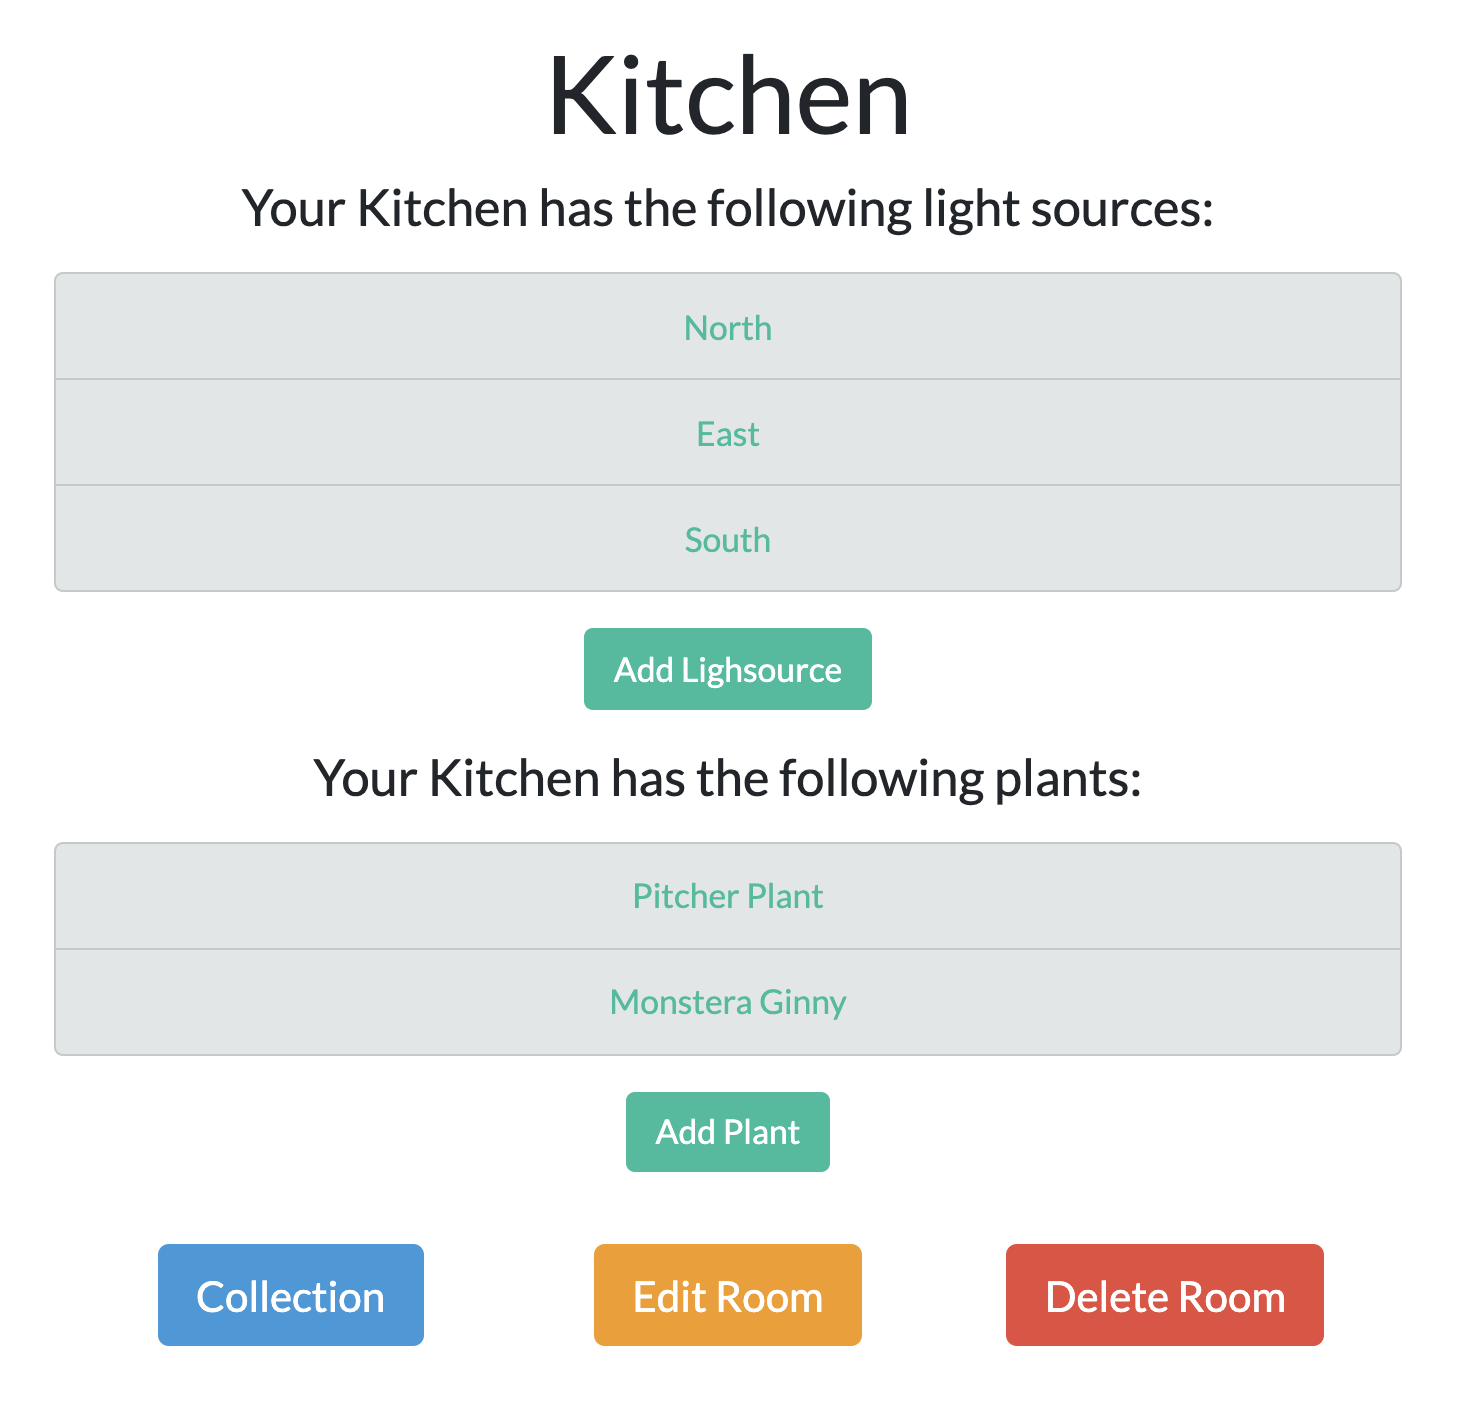
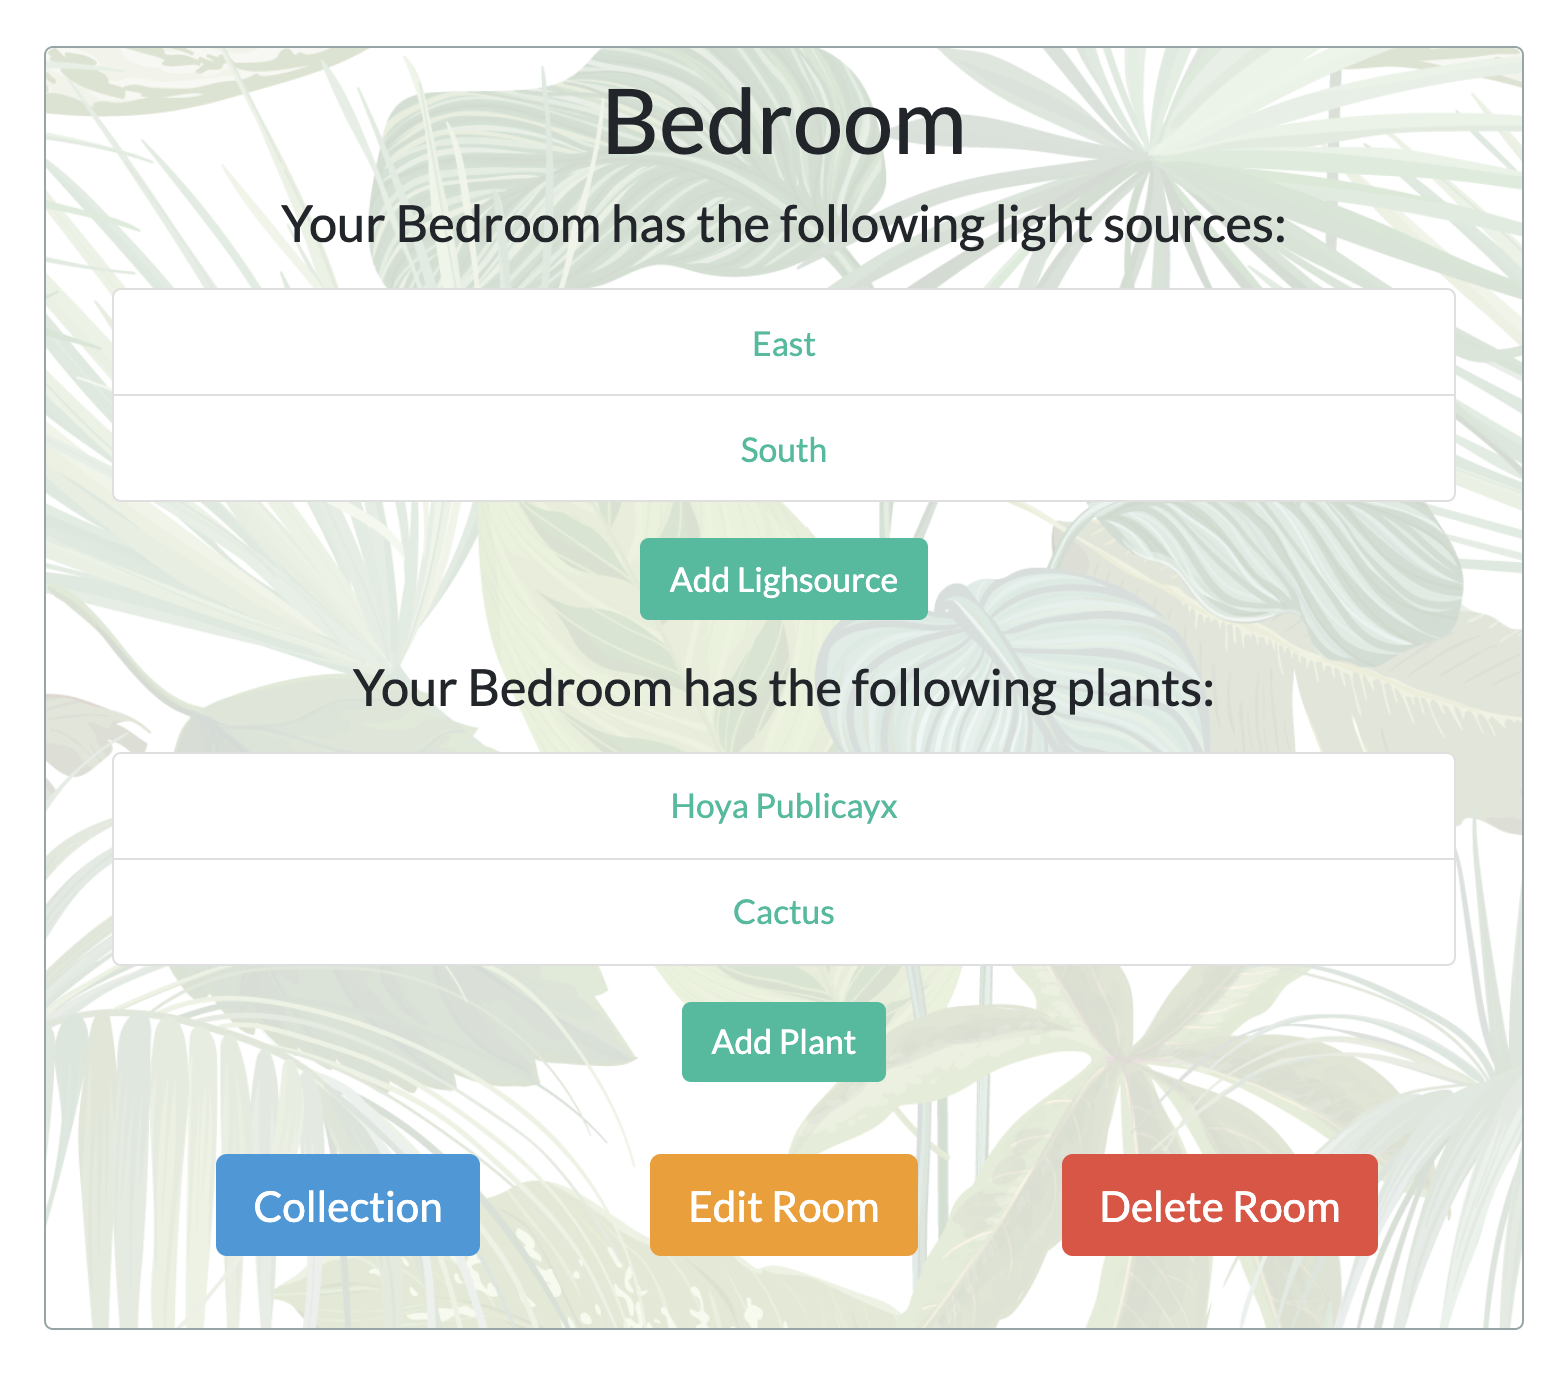
update view styles & imagery

diff --git a/templates/room/view_room.html b/templates/room/view_room.html
@@ -4,33 +4,36 @@
 
 {% block content %}
 
-<div class="col-8 mx-auto">
-  <h1>{{ room.name }}</h1>
+<div class="col-8 mx-auto border border-secondary rounded" id="room">
+  <div class="col mt-2">
+  <h2 class="mt-1">{{ room.name }}</h2>
   {% if lightsources %}
   <h4>Your {{ room.name }} has the following light sources:</h4>
+  </div>
 
   <ul class="list-group m-3">
     {% for light in lightsources %}
-    <li class="list-group-item list-group-item-secondary"><a href="{{ url_for('view_lightsource_plants', lightsource_id=light.id) }}">{{ light.type }}</a></li>
+    <li class="list-group-item list-group-item-white"><a href="{{ url_for('view_lightsource_plants', lightsource_id=light.id) }}">{{ light.type }}</a></li>
     {% endfor %}
   </ul>
-
+  <div class="col">
   <p><a href="{{ url_for('add_lightsource', room_id=room.id) }}" class="btn btn-success">Add Lighsource</a></p>
 
   {% if plants %}
   <h4>Your {{ room.name }} has the following plants:</h4>
-
+  </div>
   <ul class="list-group m-3">
     {% for plant in plants %}
-    <li class="list-group-item list-group-item-secondary"><a href="{{ url_for('view_plant', plant_id=plant.id) }}">{{ plant.name }}</a></li>
+    <li class="list-group-item list-group-item-white"><a href="{{ url_for('view_plant', plant_id=plant.id) }}">{{ plant.name }}</a></li>
     {% endfor %}
   </ul>
-
+  <div class="col">
   <p><a href="{{ url_for('add_plant', room_id=room.id) }}" class="btn btn-success">Add Plant</a></p>
   {% else %}
   <h4>Add plants to this room:</h4>
   <p><a href="{{ url_for('add_plant', room_id=room.id) }}" class="btn btn-success">Add Plant</a></p>
   {% endif %}
+  </div>
 
   <div class="row m-4">
     <div class="col">

diff --git a/templates/dashboard.html b/templates/dashboard.html
@@ -11,9 +11,9 @@
 <p><a href="{{ url_for('add_collection') }}" class="btn btn-success">Add Collection</a></p>
 
   {% for collection in collections %}
-    <div class="card col m-4" id="header">
+    <div class="card col m-4 border border-secondary rounded" id="header">
       <div class="col">
-        <h2 class="m-3 bg-light rounded"><a href="{{ url_for('view_collection', collection_id=collection.id) }}">{{ collection.name }} Collection</a></h2>
+        <h2 class="m-3 bg-white border border-secondary rounded"><a href="{{ url_for('view_collection', collection_id=collection.id) }}">{{ collection.name }} Collection</a></h2>
         <a href="{{ url_for('add_room', collection_id=collection.id) }}" class="card-link btn btn-success">Add Room</a>
         <a href="{{ url_for('edit_collection', collection_id=collection.id) }}" class="card-link btn btn-warning m-2">Edit {{ collection.name }}</a>
       </div>
@@ -21,7 +21,7 @@
     <div class="row text-left">
     {% for room in collection.rooms %}
       <div class="col">
-        <div class="card mx-auto m-2" style="width: 18rem;">
+        <div class="card mx-auto m-2 border border-secondary rounded" style="width: 18rem;">
           <div class="card-body">
             <h4 class="card-title"><a href="{{ url_for('view_room', room_id=room.id) }}">{{ room.name }}</a></h4>
           </div>

diff --git a/templates/water_manager.html b/templates/water_manager.html
@@ -10,7 +10,7 @@
 <p>Click Water to mark your plant watered, or Snooze to snooze your plant's water schedule for 3 days. Click "Add Notes" to add notes if applicable.</p>
 {% else %}
 <p>There are no plants to water today, take a break! <i class="fab fa-pagelines"></i></p>
-<p><img src="/static/img/succulent_terrariums.png" width="60%"></p>
+<p><img class="m-2" src="/static/img/succulent_terrariums.png" width="60%"></p>
 {% endif %}
 
 <div class="row row-cols-1 row-cols-md-3 g-4" id="plants_container">
@@ -28,7 +28,6 @@
             {{ error }}
             </small>
             {% endfor %}
-            <!-- <button type="button" name="water_button" data-plant-id="{{ plant.id }}" class="btn btn-success m-2">Water</button><button type="button" name="snooze_button" data-plant-id="{{ plant.id }}" class="btn btn-warning m-2">Snooze</button> -->
             </div>
           </form>
           <button type="button" name="water_button" data-plant-id="{{ plant.id }}" class="btn btn-success m-2">Water</button><button type="button" name="snooze_button" data-plant-id="{{ plant.id }}" class="btn btn-warning m-2">Snooze</button>

diff --git a/static/bootstrap.css b/static/bootstrap.css
@@ -103,7 +103,7 @@ h6 {
 }
 
 #header {
-	background-color: #2c3e4f;
+	background-color: #ffffff;
 }
 
 #header::before {
@@ -117,6 +117,25 @@ h6 {
 	bottom: 0px;
 	left: 0px;
 	opacity: 0.3;
+	border-radius: 5px;
+}
+
+#room {
+	background-color: #ffffff;
+}
+
+#room::before {
+	content: "";
+	background-image: url('/static/img/leaves.png');
+	background-size: 800px;
+	background-repeat: repeat-y;
+	position: absolute;
+	top: 0px;
+	right: 0px;
+	bottom: 0px;
+	left: 0px;
+	opacity: 0.2;
+	border-radius: 5px;
 }
 
 p {
